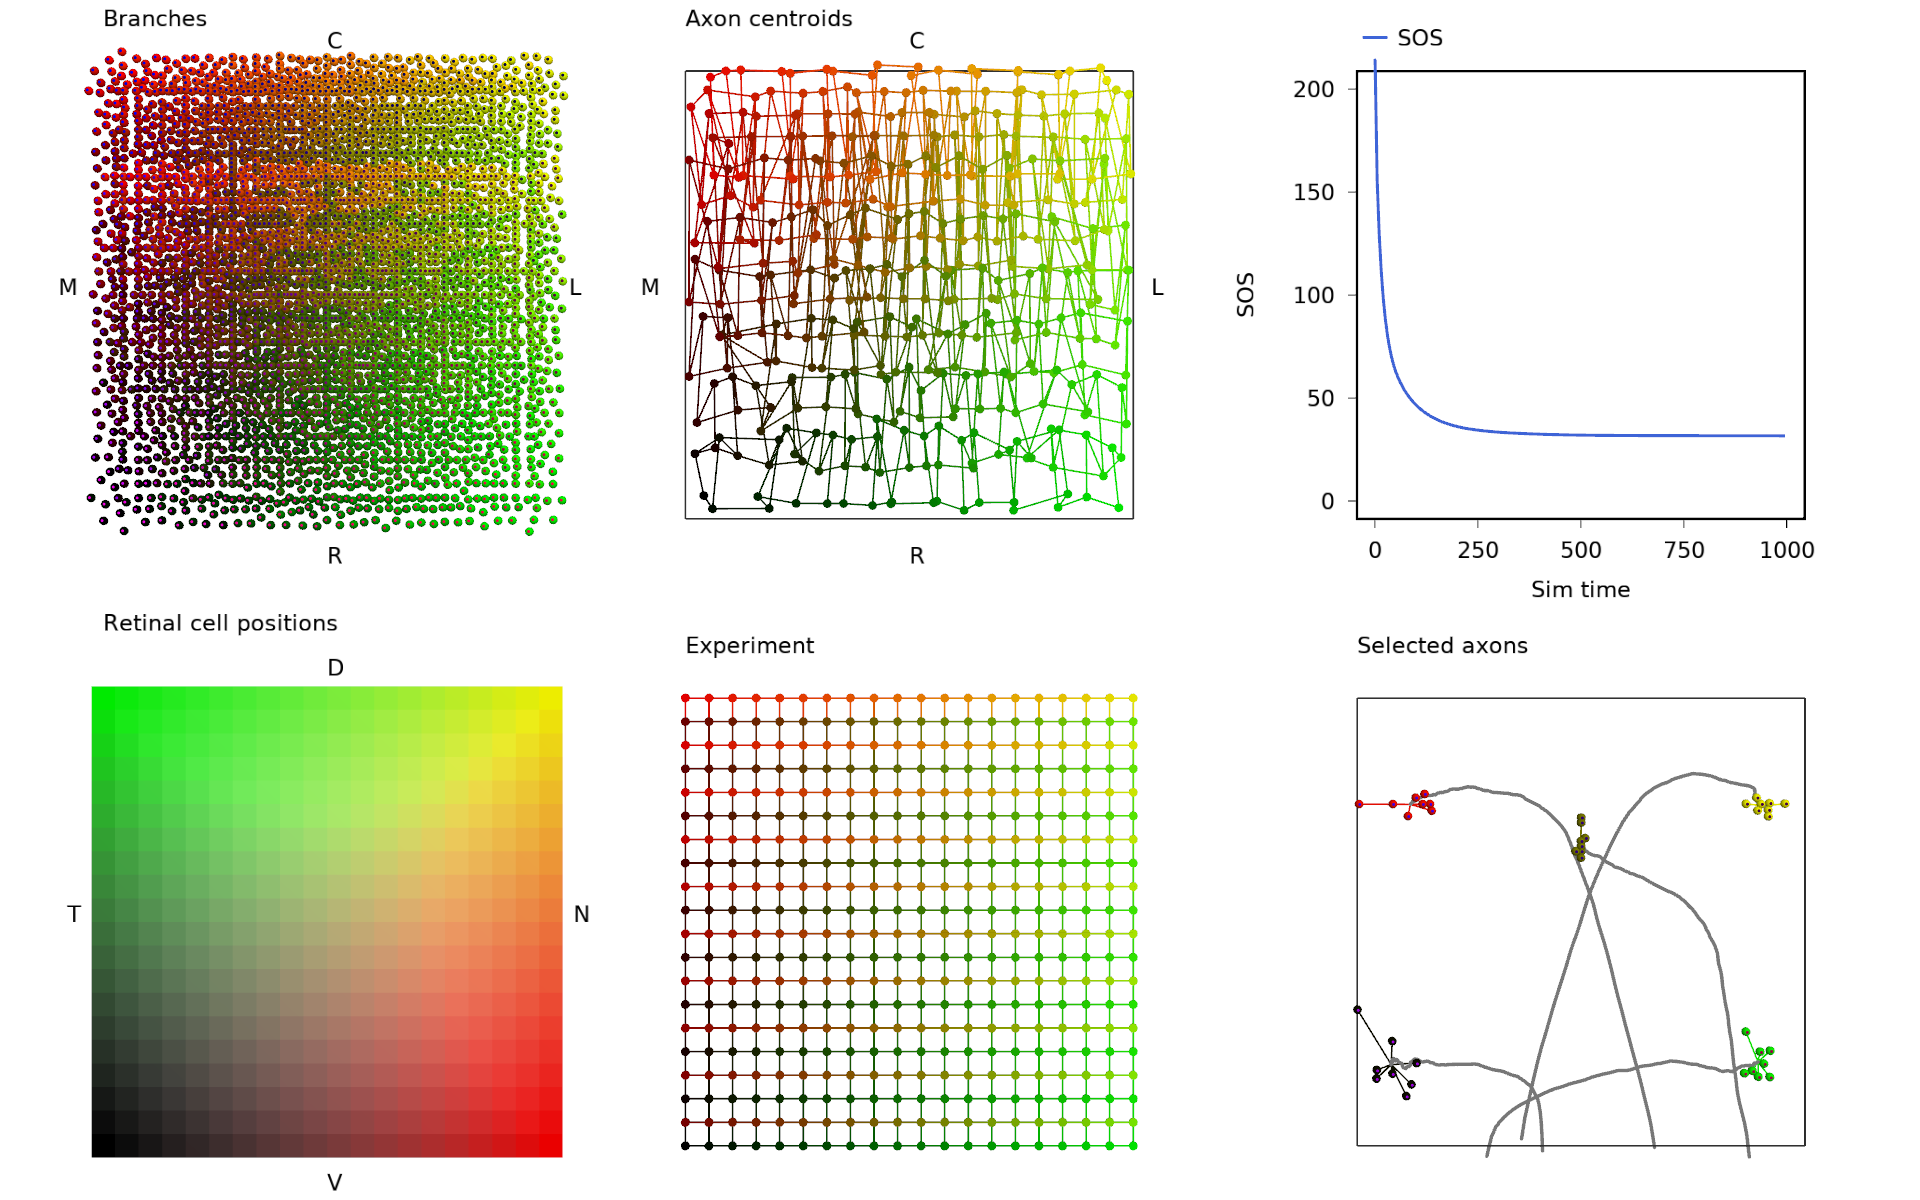
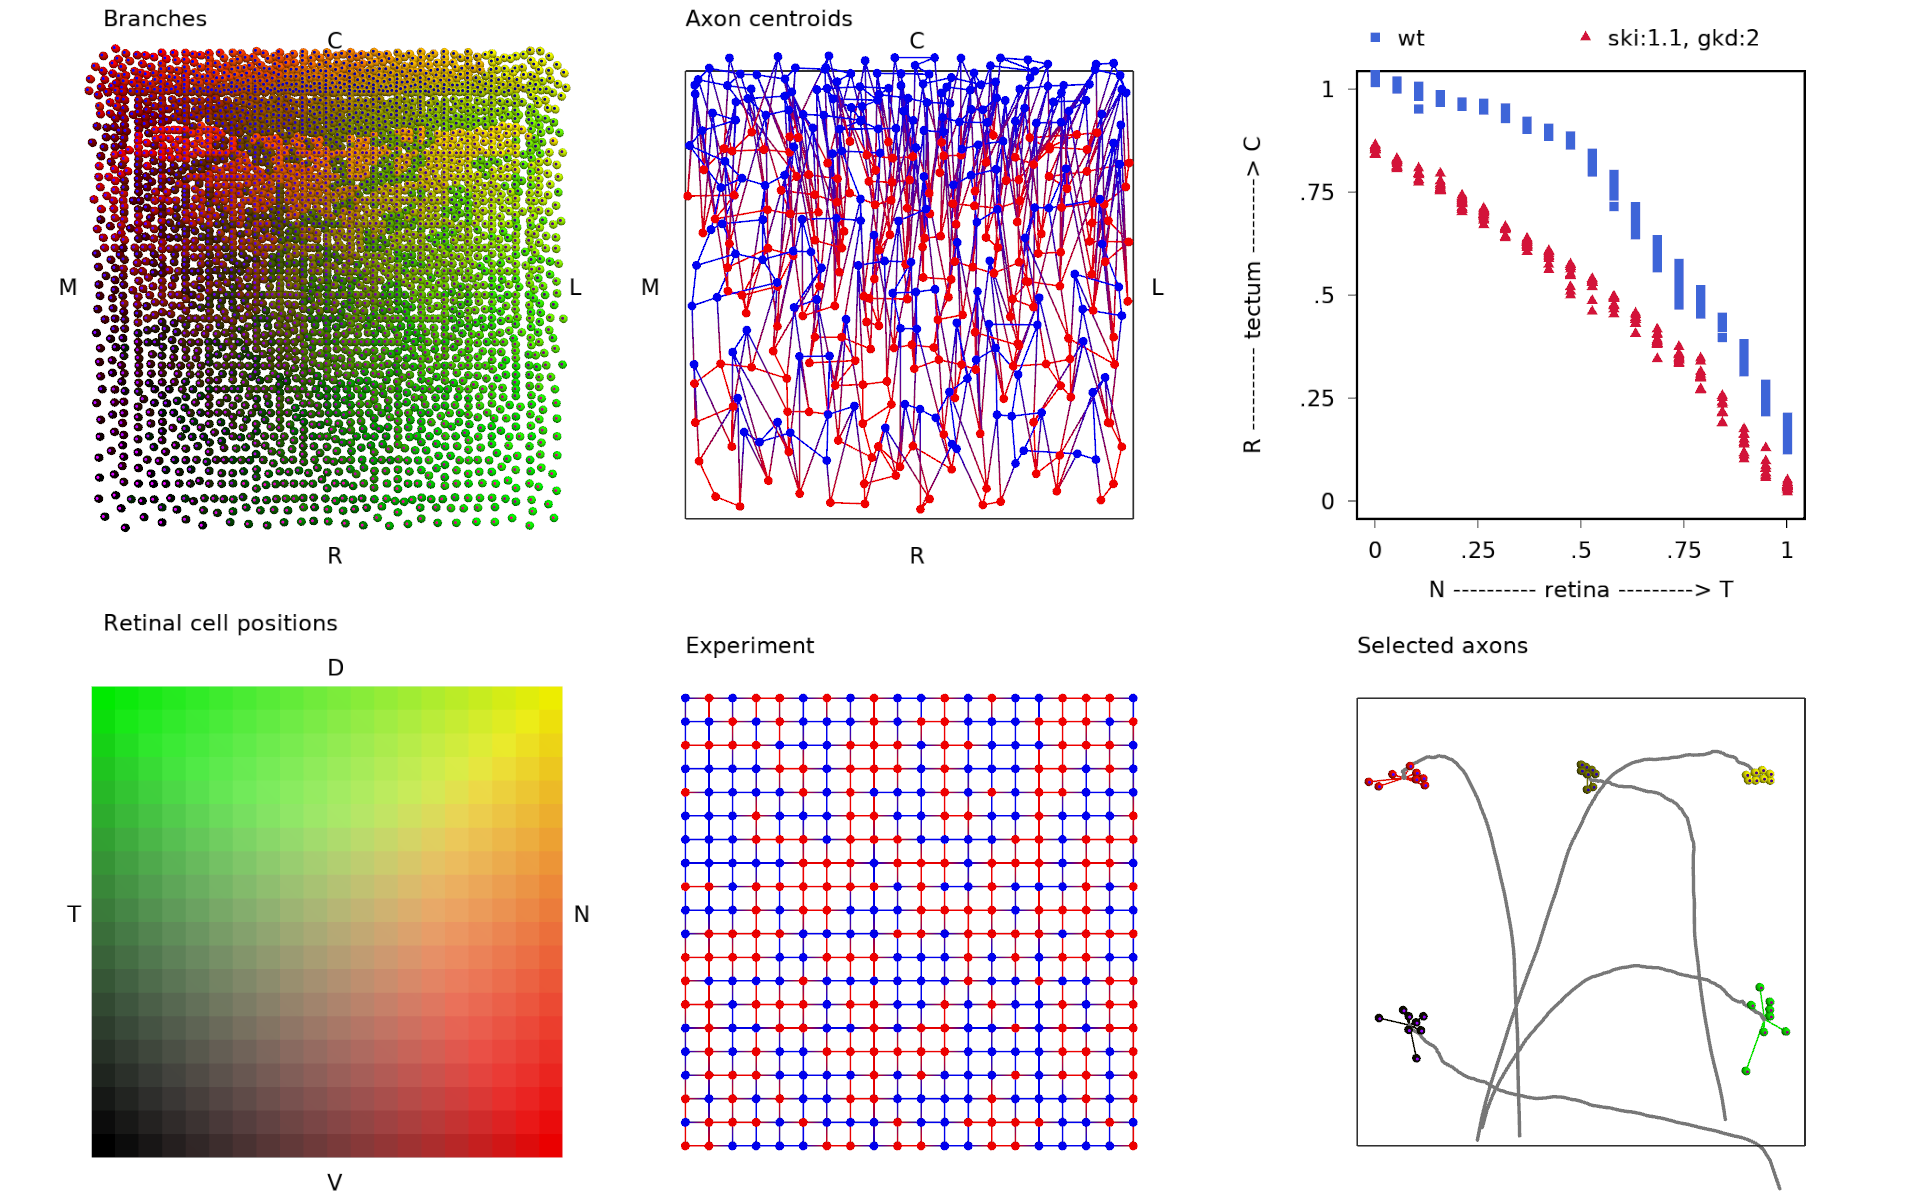
WIP

diff --git a/sim/agent/agent1.h b/sim/agent/agent1.h
@@ -37,7 +37,7 @@ static constexpr bool visualise = false;
 #endif
 
 // A selection of possible graph layouts to show when running the program
-enum class graph_layout { a, b, c, d };
+enum class graph_layout { a, b, c, d, e };
 
 template<typename T, size_t N, typename B=branch<T, N>>
 struct Agent1
@@ -141,23 +141,31 @@ struct Agent1
         std::cout << "Done simulating\n";
         if constexpr (visualise == true) {
 
-            // Update retinal TN position vs tectal RC position graph for the 'd' layout:
-            if (this->layout == graph_layout::d) {
-                morph::vVector<T>tn(this->ret->posn.size(), 0);
+            // Update retinal NT position vs tectal RC position graph for the 'd' layout:
+            if (this->layout == graph_layout::d || this->layout == graph_layout::e) {
+                morph::vVector<T>nt;
+                morph::vVector<T>rc;
+                morph::vVector<T>nt_m; // manipulated
+                morph::vVector<T>rc_m;
+
                 size_t ii = 0;
-                for (auto p : this->ret->posn) {
-                    tn[ii++] = p[0]; // Get x-component of retinal position into tn.
+                for (ii = 0; ii < this->ret->posn.size(); ++ii) {
+                    if (this->ret->rcpt_manipulated[ii][0]) {
+                        nt_m.push_back(1-this->ret->posn[ii][0]);
+                        rc_m.push_back(this->ax_centroids.p[ii][1]);
+                    } else {
+                        nt.push_back(1-this->ret->posn[ii][0]);
+                        rc.push_back(this->ax_centroids.p[ii][1]);
+                    }
                 }
-                morph::vVector<T>rc(this->ax_centroids.p.size(), 0);
-                ii = 0;
-                for (auto p : this->ax_centroids.p) {
-                    rc[ii++] = p[1]; // Get y-component of final tectal position into rc
-                }
-                if (rc.size() != tn.size()) {
-                    throw std::runtime_error ("rc and tn not same size");
-                }
-                this->gv->setdata (rc, tn);
-                this->gv->reinit(); // re-finalize?
+
+                this->gv->setdata (nt, rc, "wt");
+                T ki_amount = this->conf->getDouble ("knockin", 1);
+                T kd_amount = this->conf->getDouble ("knockdown", 0);
+                std::stringstream ss;
+                ss << "ski:" << ki_amount << ", gkd:" << kd_amount;
+                this->gv->setdata (nt_m, rc_m, ss.str());
+                this->gv->reinit();
                 this->v->render();
             }
 
@@ -199,12 +207,13 @@ struct Agent1
         }
         this->cv->reinit(); // Centroids to end
 
-        this->tcv->reinit(); // Experiment
-        this->av->reinit(); // Selected axons
+        if (this->layout != graph_layout::e) {
+            this->tcv->reinit(); // Experiment
+            this->av->reinit(); // Selected axons
+        }
         if (this->layout == graph_layout::a || this->layout == graph_layout::c) {
             this->gv->append ((float)stepnum, this->ax_centroids.sos(), 0);
         }
-
         this->v->render();
         if (this->conf->getBool ("movie", false)) {
             std::stringstream frame;
@@ -564,12 +573,13 @@ struct Agent1
         // Knockin will increase expression for half of all cells. There's code in tissue.h to make this randomised or regular
         bool genetic_manipulation = false;
         T affected = T{0.5};
-        T amount = this->conf->getDouble ("amount", 1);
+        T ki_amount = this->conf->getDouble ("knockin", 1);
+        T kd_amount = this->conf->getDouble ("knockdown", 0);
         if (this->conf->getBool ("reber", false)) {
             if (manipulated) { throw std::runtime_error ("Code is only tested for one manipulation at a time!"); }
             // Knockin/knockdown receptor 0:
-            this->ret->receptor_knockin (0, affected, amount);
-            this->ret->receptor_knockdown (0, amount);
+            this->ret->receptor_knockin (0, affected, ki_amount);
+            this->ret->receptor_knockdown (0, kd_amount);
             manipulated = true;
             genetic_manipulation = true;
         }
@@ -577,7 +587,7 @@ struct Agent1
         if (this->conf->getBool ("brown", false)) {
             if (manipulated) { throw std::runtime_error ("Code is only tested for one manipulation at a time!"); }
             // Knockin receptor 0 in half of RGCs (but with no knockdown):
-            this->ret->receptor_knockin (0, affected, amount);
+            this->ret->receptor_knockin (0, affected, ki_amount);
             manipulated = true;
             genetic_manipulation = true;
         }
@@ -925,13 +935,13 @@ struct Agent1
     {
         // morph::Visual init
         unsigned int wdefault = 1200;
-        if (this->layout == graph_layout::a) { wdefault = 1920; }
-        if (this->layout == graph_layout::b) { wdefault = 2650; }
+        if (this->layout == graph_layout::a || this->layout == graph_layout::d) { wdefault = 1920; }
+        if (this->layout == graph_layout::b || this->layout == graph_layout::e) { wdefault = 2650; }
         if (this->layout == graph_layout::c) { wdefault = 2200; }
         const unsigned int ww = this->conf->getUInt ("win_width", wdefault);
         unsigned int hdefault = 800;
-        if (this->layout == graph_layout::a) { hdefault = 1200; }
-        if (this->layout == graph_layout::b) { hdefault = 700; }
+        if (this->layout == graph_layout::a || this->layout == graph_layout::d) { hdefault = 1200; }
+        if (this->layout == graph_layout::b || this->layout == graph_layout::e) { hdefault = 700; }
         if (this->layout == graph_layout::c) { hdefault = 1180; }
         const unsigned int wh = this->conf->getUInt ("win_height", hdefault);
 
@@ -939,9 +949,11 @@ struct Agent1
         tt += this->title;
         this->v = new morph::Visual (ww, wh, tt);
 
-        if (this->layout == graph_layout::a) {
+        if (this->layout == graph_layout::a || this->layout == graph_layout::d) {
             this->v->setSceneTrans (-0.413126f, 0.6811f, -5.0f);
         } else if (this->layout == graph_layout::b) {
+            this->v->setSceneTrans (-0.890077f, -0.0236414f, -2.6f);
+        } else if (this->layout == graph_layout::e) {
             this->v->setSceneTrans (-0.890077f, -0.0236414f, -2.6f);
         } else if (this->layout == graph_layout::c) {
             this->v->setSceneTrans (-0.943763f, 0.800606f, -5.9f);
@@ -962,8 +974,7 @@ struct Agent1
         this->v->setCurrent();
 
         if (this->layout == graph_layout::a // Standard layout for investigations
-            || this->layout == graph_layout::d // Standard layout tweaked with graphs like in Brown et al
-            ) {
+            || this->layout == graph_layout::d) { // Standard layout tweaked with graphs like in Brown et al
 
             // Branches: Visualise the branches with a custom VisualModel
             this->bv = new BranchVisual<T, N, B> (v->shaderprog, v->tshaderprog, offset, &this->branches, &this->ax_history);
@@ -1022,15 +1033,14 @@ struct Agent1
             } else {
                 this->gv->setlimits (0, 1, 0, 1);
                 this->gv->policy = morph::stylepolicy::markers;
-                this->gv->ylabel = "Percent R-C tectum";
-                this->gv->xlabel = "Percent N-T retina";
+                this->gv->ylabel = "R ---------- tectum ---------> C";
+                this->gv->xlabel = "N ---------- retina ---------> T";
                 //this->gv->prepdata ("0"); // without this, GraphVisual code crashes at first render.
             }
             this->gv->finalize();
             v->addVisualModel (this->gv);
 
         } else if (this->layout == graph_layout::b) { // A pared down layout with just 3 graphs
-
 
             // Experiment: Another NetVisual view showing the target locations
             this->tcv = new NetVisual<T> (v->shaderprog, v->tshaderprog, offset, &this->ax_centroids);
@@ -1055,14 +1065,16 @@ struct Agent1
             //this->cv->maxlen = this->conf->getDouble ("maxnetline", 1.0);
             //this->cv->viewmode = netvisual_viewmode::actual_nolines;
             this->cv->viewmode = netvisual_viewmode::actual;
-            this->cv->radiusFixed = 0.02;
+            if (this->layout == graph_layout::b) {
+                this->cv->radiusFixed = 0.02;
+            }
             this->cv->finalize();
             this->cv->addLabel ("Axon centroids", {0.0f, 1.1f, 0.0f});
             this->addOrientationLabels (this->cv, std::string("Tectal"));
             v->addVisualModel (this->cv);
 
-            // Selected axons: This one gives an 'axon view'
             offset[0] += 1.3f;
+            // Selected axons: This one gives an 'axon view'
             this->av = new BranchVisual<T, N, B> (v->shaderprog, v->tshaderprog, offset, &this->branches, &this->ax_history);
             this->av->axonview = true;
             for (auto sa : this->seeaxons) { this->av->seeaxons.insert(sa); }
@@ -1071,6 +1083,41 @@ struct Agent1
             this->av->finalize();
             this->av->addLabel ("Selected axons", {0.0f, 1.1f, 0.0f});
             v->addVisualModel (this->av);
+
+        } else if (this->layout == graph_layout::e) {
+
+            // Branches: Visualise the branches with a custom VisualModel
+            this->bv = new BranchVisual<T, N, B> (v->shaderprog, v->tshaderprog, offset, &this->branches, &this->ax_history);
+            this->bv->rcpt_scale.compute_autoscale (rcpt_min, rcpt_max);
+            this->bv->target_scale.compute_autoscale (0, 1);
+            this->bv->finalize();
+            this->bv->addLabel ("Branches", {0.0f, 1.1f, 0.0f});
+            this->addOrientationLabels (this->bv, std::string("Tectal"));
+            v->addVisualModel (this->bv);
+
+            // Axon centroids: Centroids of branches viewed with a NetVisual
+            offset[0] += 1.3f;
+            this->cv = new NetVisual<T> (v->shaderprog, v->tshaderprog, offset, &this->ax_centroids);
+            this->cv->viewmode = netvisual_viewmode::actual;
+            if (this->layout == graph_layout::b) {
+                this->cv->radiusFixed = 0.02;
+            }
+            this->cv->finalize();
+            this->cv->addLabel ("Axon centroids", {0.0f, 1.1f, 0.0f});
+            this->addOrientationLabels (this->cv, std::string("Tectal"));
+            v->addVisualModel (this->cv);
+
+            offset[0] += 1.4f;
+
+            // The position graph, like Brown/Reber and S&G papers
+            this->gv = new morph::GraphVisual<T> (v->shaderprog, v->tshaderprog, offset);
+            this->gv->twodimensional = false;
+            this->gv->setlimits (0, 1, 0, 1);
+            this->gv->policy = morph::stylepolicy::markers;
+            this->gv->ylabel = "R ---------- tectum ---------> C";
+            this->gv->xlabel = "N ---------- retina ---------> T";
+            //this->gv->finalize();
+            v->addVisualModel (this->gv);
 
         } else if (this->layout == graph_layout::c) { // Layout with diff. time end points
 

diff --git a/paper/paper.tex b/paper/paper.tex
@@ -658,7 +658,21 @@ together')}
 
 Brown et al. EphA knock-in.
 
+\begin{figure}
+\includegraphics[width=\linewidth]{./images/j4_ee_brown.png}
+\caption{Brown et al simulation. This is EphA3 knockin - it adds a constant to
+half of the RGC's $r_0$ (randomly selected). Compare with S\&G Fig.\,6.}
+\label{f:brown}
+\end{figure}
+
 Describe Reber and other gene knock-in and knock-out experiments.
+
+\begin{figure}
+\includegraphics[width=\linewidth]{./images/j4_ee_reber.png}
+\caption{Reber et al simulation. Follow on to Brown et al (same
+group). Combines the selective EphA3 knockin with a uniform EphA4 knockdown.}
+\label{f:reber}
+\end{figure}
 
 \subsection*{ligand expression profiles}
 

diff --git a/sim/agent/tissue.h b/sim/agent/tissue.h
@@ -658,7 +658,7 @@ struct guidingtissue : public tissue<T>
 
     // For receptor index idx, knock-in affected proportion (range [0,1]) of cells,
     // adding amount as a constant increase in receptor expression
-    static constexpr bool random_knockin = false;
+    static constexpr bool random_knockin = true;
     void receptor_knockin (size_t idx, T affected, T amount)
     {
         if (idx >= N) { throw std::runtime_error ("receptor index out of range"); }
